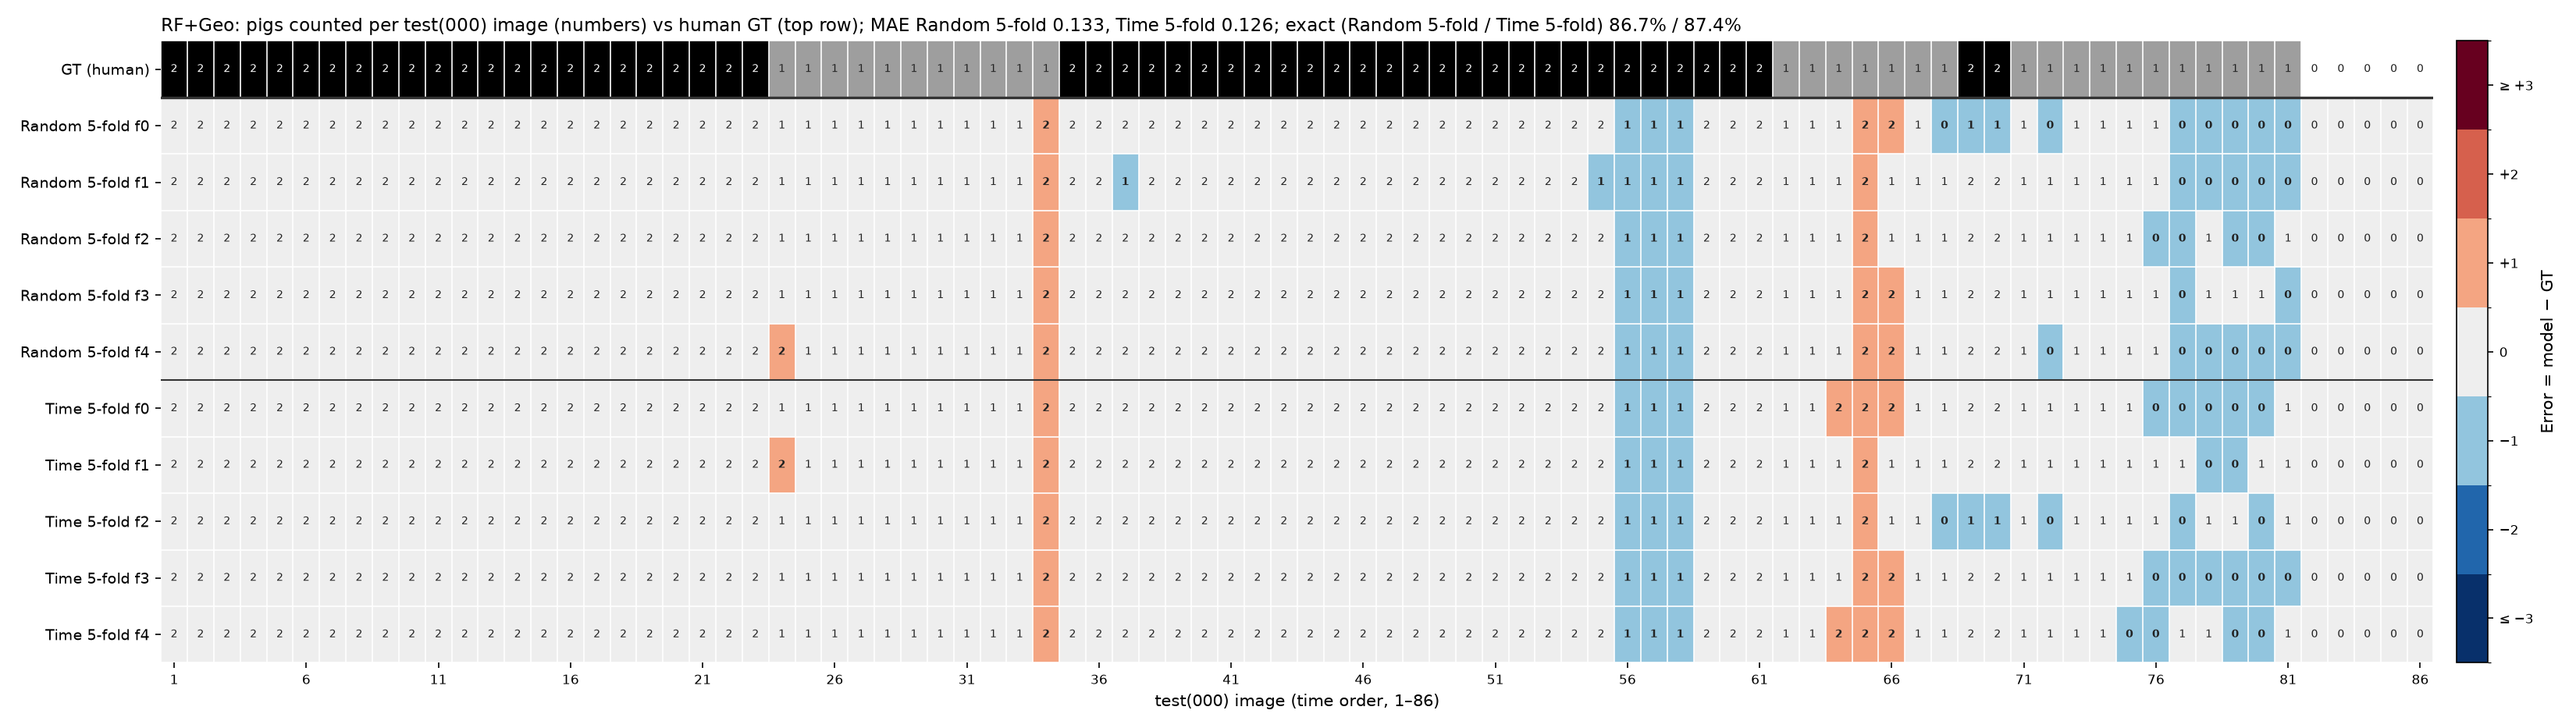
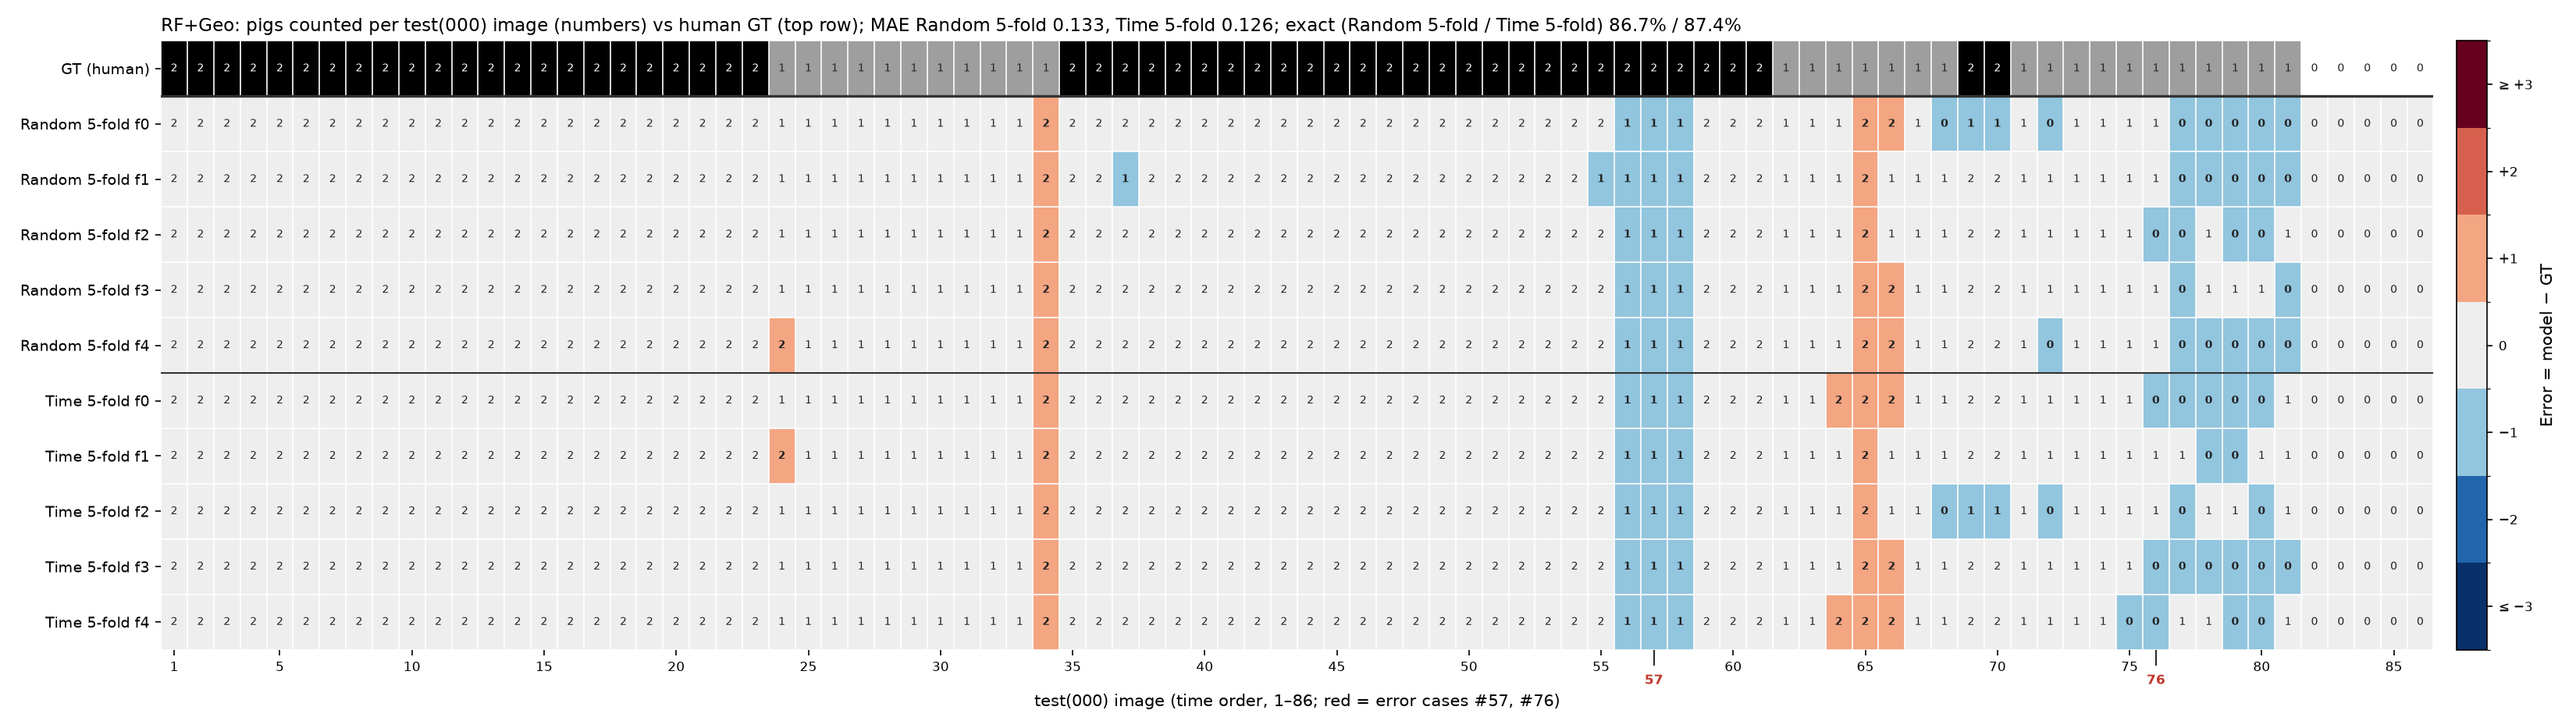
Image-number x axis (1-86) on graphs A, E, F, J and per-model figures: ticks every 5 plus error cases #57 and #76 in red (shared frame_axis.py)

diff --git a/counting/scripts/per_image_000.py b/counting/scripts/per_image_000.py
@@ -26,6 +26,9 @@ matplotlib.use("Agg")
 import matplotlib.pyplot as plt  # noqa: E402
 from matplotlib.colors import BoundaryNorm, ListedColormap  # noqa: E402
 
+sys.path.insert(0, str(Path(__file__).resolve().parent))
+from frame_axis import frame_ticks  # noqa: E402
+
 ROOT = Path(__file__).resolve().parents[1]
 FS = ROOT / "reports" / "fold_study"
 OUT = FS / "per_image"
@@ -147,7 +150,7 @@ def plot_e(base, frames):
     """그래프 E: 행 = 방법, 열 = 분할. GT 계단선 + fold 평균선 + fold 최소~최대 띠."""
     ms = [(m, lab) for m, lab in METHODS if m in frames]
     fig, axes = plt.subplots(len(ms), 2, figsize=(15, 2.0 * len(ms) + 1.2), sharex=True, sharey=True)
-    x = np.arange(len(base))
+    x = np.arange(1, len(base) + 1)                      # 사진 번호 1~86
     for c, (key, elab, _, p) in enumerate(SCHEMES):
         for r, (m, lab) in enumerate(ms):
             ax = axes[r, c]
@@ -165,12 +168,13 @@ def plot_e(base, frames):
                 ax.set_ylabel(lab, fontsize=10)
             ax.set_yticks([0, 1, 2, 3])
             ax.set_ylim(-0.25, 3.25)
+            ax.set_xlim(0, len(base) + 0.5)
             ax.grid(axis="y", color="#e5e5e5", lw=0.8)
             ax.set_axisbelow(True)
             ax.spines[["top", "right"]].set_visible(False)
+            frame_ticks(ax, lines=True)
     for ax in axes[-1]:
-        ax.set_xlabel("test(000) image (time order, 1–86)")
-        ax.set_xticks(np.arange(0, 86, 10), [str(i + 1) for i in range(0, 86, 10)])
+        ax.set_xlabel("test(000) image (time order, 1–86; red = error cases #57, #76)")
     from matplotlib.lines import Line2D
     from matplotlib.patches import Patch
     h = [Line2D([], [], color="#000", ls="--", lw=1.4, label="GT (human)"),
@@ -206,7 +210,7 @@ def plot_model(base, fr, m, lab, path):
                     color="#ffffff" if dark else "#222222",
                     fontweight="bold" if (e is not None and e[j] != 0) else "normal")
     ax.set_yticks(np.arange(R), [r[0] for r in rows], fontsize=9)
-    ax.set_xticks(np.arange(0, n, 5), [str(i + 1) for i in range(0, n, 5)], fontsize=8)
+    frame_ticks(ax, offset=-1, first=1, fontsize=8)
     ax.set_xticks(np.arange(-0.5, n, 1), minor=True)
     ax.set_yticks(np.arange(-0.5, R, 1), minor=True)
     ax.grid(which="minor", color="#ffffff", lw=0.8)
@@ -215,7 +219,7 @@ def plot_model(base, fr, m, lab, path):
     ax.axhline(K + 0.5, color="#333", lw=1.0)
     for s in ax.spines.values():
         s.set_visible(False)
-    ax.set_xlabel("test(000) image (time order, 1–86)")
+    ax.set_xlabel("test(000) image (time order, 1–86; red = error cases #57, #76)")
     cb = fig.colorbar(im, ax=ax, ticks=ERR_LEVELS, fraction=0.015, pad=0.01)
     cb.ax.set_yticklabels(["≤ −3", "−2", "−1", "0", "+1", "+2", "≥ +3"], fontsize=8)
     cb.set_label("Error = model − GT")
@@ -262,8 +266,8 @@ def plot_f(base, frames):
 
     im = ax.imshow(E, aspect="auto", cmap=cmap, norm=norm, interpolation="nearest")
     ax.set_yticks(np.arange(n_models), labels, fontsize=6.5)
-    ax.set_xticks(np.arange(0, 86, 5), [str(i + 1) for i in range(0, 86, 5)], fontsize=8)
-    ax.set_xlabel("test(000) image (time order, 1–86)")
+    frame_ticks(ax, offset=-1, first=1, fontsize=8)
+    ax.set_xlabel("test(000) image (time order, 1–86; red = error cases #57, #76)")
     ax.set_xticks(np.arange(-0.5, 86, 1), minor=True)
     ax.set_yticks(np.arange(-0.5, n_models, 1), minor=True)
     ax.grid(which="minor", color="#ffffff", lw=0.6)

diff --git a/counting/scripts/plot_counts_3methods.py b/counting/scripts/plot_counts_3methods.py
@@ -13,6 +13,7 @@
 가로축 = 000 영상 시간(초, 프레임 번호 / 24), 세로축 = 카운팅 횟수(visiting 마릿수).
 사용법 (counting/ 에서):  python scripts/plot_counts_3methods.py
 """
+import sys
 from pathlib import Path
 
 import matplotlib
@@ -21,6 +22,9 @@ matplotlib.use("Agg")
 import matplotlib.pyplot as plt  # noqa: E402
 import numpy as np  # noqa: E402
 import pandas as pd  # noqa: E402
+
+sys.path.insert(0, str(Path(__file__).resolve().parent))
+from frame_axis import frame_ticks  # noqa: E402
 
 ROOT = Path(__file__).resolve().parents[1]
 FS = ROOT / "reports" / "fold_study"
@@ -189,7 +193,7 @@ def plot_j_single(axis="sec"):
         for m, mlab in METHODS:
             gt, pred, x = load(m, p)
             if axis == "frame":
-                x = np.arange(len(gt))                                   # 000 이미지 순번 0~85 (시간순)
+                x = np.arange(1, len(gt) + 1)                            # 000 사진 번호 1~86 (시간순, 오차 사례 #57 · #76과 같은 번호)
             if m == METHODS[0][0]:
                 ax.step(x, gt, where="mid", color="#c8c8c8", lw=7, solid_capstyle="butt", label="Human GT", zorder=1)
             mae, _, tot, _ = fold_stats(gt, pred)
@@ -197,12 +201,13 @@ def plot_j_single(axis="sec"):
                     label=f"{mlab}: MAE {mae:.3f}, counted {tot:.1f} / {gt.sum():.0f}")
         ax.set_ylim(-0.3, 3.2)
         ax.set_yticks([0, 1, 2, 3])
-        ax.xaxis.set_major_locator(MultipleLocator(5))
         ax.xaxis.set_minor_locator(MultipleLocator(1))
         if axis == "frame":
-            ax.set_xlim(-0.7, len(gt) - 0.3)
-            ax.set_xlabel(f"Frame (test(000) image index, 0–{len(gt) - 1})")
+            ax.set_xlim(0, len(gt) + 0.5)
+            frame_ticks(ax, lines=True)
+            ax.set_xlabel(f"Frame (test(000) image no. 1–{len(gt)}; red = error cases #57, #76)")
         else:
+            ax.xaxis.set_major_locator(MultipleLocator(5))
             ax.set_xlim(-0.5, 60.5)
             ax.set_xlabel("Time (s)")
         ax.set_ylabel("Number of visiting pigs")

diff --git a/counting/scripts/frame_axis.py b/counting/scripts/frame_axis.py
@@ -1,0 +1,33 @@
+"""test(000) 사진 번호 가로축의 공통 눈금 (그래프 A · E · F · J · 모델별 그림).
+
+사진 번호 = 시간순 1~86 (per_image_000.md의 #, 오차 사례 그림 all_models_<번호>.png와 같은 번호).
+눈금 = 0, 5, 10, ..., 85 + 가림 · 밀집 오차 사례 사진 #57 · #76.
+  - 57 · 76은 빨간 굵은 글씨, 바로 옆 55 · 75와 겹치지 않게 조금 아래에 씀
+  - 선 그래프는 57 · 76 위치에 옅은 빨간 점선 (lines=True)
+"""
+from matplotlib.transforms import ScaledTranslation
+
+N_IMAGES = 86
+CASES = (57, 76)               # error_cases.py 기본값 (가림 · 밀집 오차 사례)
+CASE_COLOR = "#c0392b"
+
+
+def frame_ticks(ax, offset=0.0, first=0, lines=False, fontsize=None):
+    """ax의 가로축에 사진 번호 눈금을 둠.
+    offset: 데이터 x = 사진 번호 + offset  (선 그래프 x = 1~86 → 0, heatmap 칸 인덱스 0~85 → −1)
+    first : 첫 눈금 (선 그래프 0, heatmap은 사진 1부터라 1)"""
+    nums = sorted(set([first] + list(range(5, N_IMAGES + 1, 5)) + list(CASES)))
+    ax.set_xticks([n + offset for n in nums], [str(n) for n in nums], fontsize=fontsize)
+    shift = ScaledTranslation(0, -8 / 72, ax.figure.dpi_scale_trans)
+    for lab, n in zip(ax.get_xticklabels(), nums):
+        if n in CASES:
+            lab.set_color(CASE_COLOR)
+            lab.set_fontweight("bold")
+            lab.set_transform(lab.get_transform() + shift)
+    for t, n in zip(ax.xaxis.get_major_ticks(), nums):
+        if n in CASES:
+            t.tick1line.set_markersize(t.tick1line.get_markersize() + 6)
+            t.tick1line.set_color(CASE_COLOR)
+    if lines:
+        for n in CASES:
+            ax.axvline(n + offset, color=CASE_COLOR, lw=0.9, ls=":", alpha=0.75, zorder=0.6)

diff --git a/counting/scripts/compare_folds.py b/counting/scripts/compare_folds.py
@@ -48,6 +48,9 @@ REPO = ROOT.parent
 sys.path.insert(0, str(REPO / "yolo_det" / "scripts"))
 from prepare_data import time_key  # noqa: E402
 
+sys.path.insert(0, str(Path(__file__).resolve().parent))
+from frame_axis import frame_ticks  # noqa: E402
+
 K = 5
 METHODS = [("geo", "Geo"), ("rf", "RF"), ("rf_geo", "RF+Geo"), ("rf_geo_leg", "RF+Geo+Leg"), ("yolo", "YOLO")]
 RF_FAMILY = ["rf", "rf_geo", "rf_geo_leg"]
@@ -455,7 +458,7 @@ def plot_a(out, rf_best):
                     fr.append(pd.read_csv(f, encoding="utf-8-sig").sort_values("frame_idx").reset_index(drop=True))
             if not fr:
                 continue
-            x = np.arange(len(fr[0]))
+            x = np.arange(1, len(fr[0]) + 1)                  # 사진 번호 1~86 (오차 사례 #57 · #76과 같은 번호)
             if not gt_drawn:
                 ax.step(x, fr[0]["gt"], where="mid", color=COLOR["gt"], lw=1.8, label="GT (human)")
                 gt_drawn = True
@@ -466,10 +469,12 @@ def plot_a(out, rf_best):
         ax.set_title("Random 5-fold" if key == "random_5fold" else "Time 5-fold", loc="left", fontsize=10)
         ax.set_ylabel("Visiting pigs")
         ax.set_yticks([0, 1, 2, 3])
+        ax.set_xlim(0, 86.5)
         ax.grid(axis="y", color="#e5e5e5")
         ax.spines[["top", "right"]].set_visible(False)
         ax.legend(frameon=False, fontsize=8, ncol=4, loc="lower left")
-    axes[-1].set_xlabel("Image order in test(000) (time →)")
+        frame_ticks(ax, lines=True)
+    axes[-1].set_xlabel("test(000) image (time order, 1–86; red = error cases #57, #76)")
     fig.suptitle("Per-image visiting count on test(000) (line = mean over folds, band = min–max)")
     fig.tight_layout()
     fig.savefig(out / "graph_A_frame_counts_000.png", dpi=150)

diff --git a/counting/scripts/paper_tables.py b/counting/scripts/paper_tables.py
@@ -357,7 +357,7 @@ def main():
            "| E | `../per_image/graph_E_per_image_counts.png` | Visiting pigs counted per test(000) image, every method vs GT (mean over 5 folds, band = min–max) |",
            "| F | `../per_image/graph_F_per_image_error_heatmap.png` | Per-image counting error of all 50 models on test(000) |",
            "| G | `../error_cases/all_models_57.png`, `all_models_76.png` | Occlusion / crowding error cases: all 10 pose models side by side |",
-           "| J | `../graph_J_random_5fold_frames.png`, `../graph_J_time_5fold_frames.png` | Visiting pigs per test(000) image (frame 0–85), human GT vs Geo, RF+Geo+Leg, YOLO, one figure per split (mean of 5 fold models; lines offset by −0.06 / 0 / +0.06) |",
+           "| J | `../graph_J_random_5fold_frames.png`, `../graph_J_time_5fold_frames.png` | Visiting pigs per test(000) image (image no. 1–86; error cases #57, #76 marked in red), human GT vs Geo, RF+Geo+Leg, YOLO, one figure per split (mean of 5 fold models; lines offset by −0.06 / 0 / +0.06) |",
            "| – | `../per_image/by_model/<method>.png` | Per-method counts on test(000): GT row + 10 fold models |", ""]
     (OUT / "paper_metrics.md").write_text("\n".join(md) + "\n", encoding="utf-8")
     print("\n".join(md))
